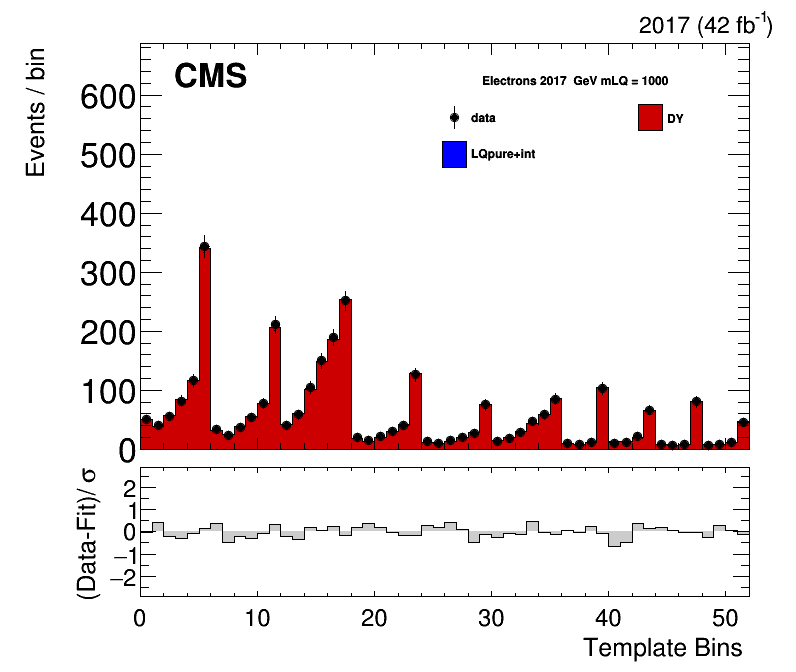
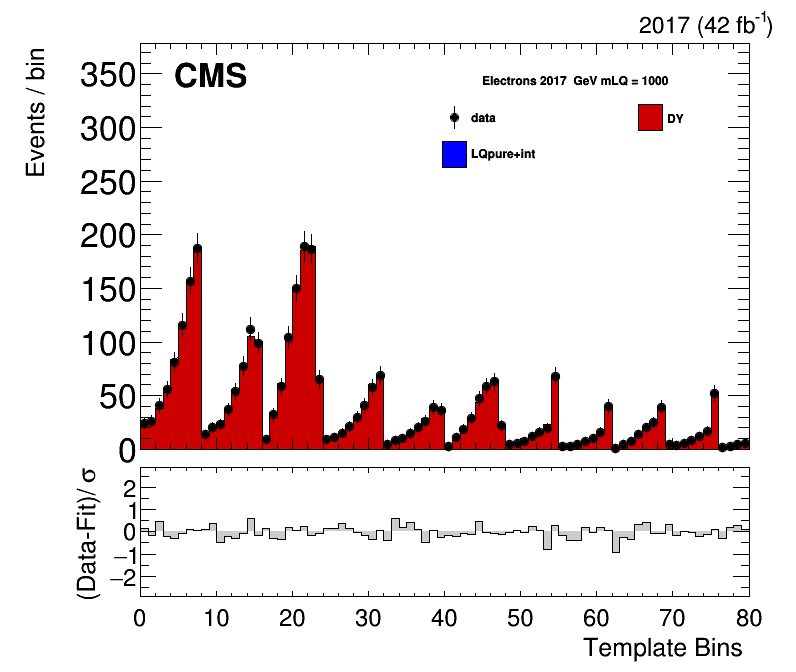
redoing SM gen fit

diff --git a/analyze/combine/AFB_fits/scripts/LQ_do_fits.py b/analyze/combine/AFB_fits/scripts/LQ_do_fits.py
@@ -75,7 +75,7 @@ for y in [2017]:
 
 
             #for mLQ in [1500]:
-            for mLQ in [2500]:
+            for mLQ in [1000]:
             #,1500,2000,2500,3000,3500,4000,4500,5000,5500,6000]:
             #mLQ = 1000.
             #for mbin in range(bin_start, bin_stop):
